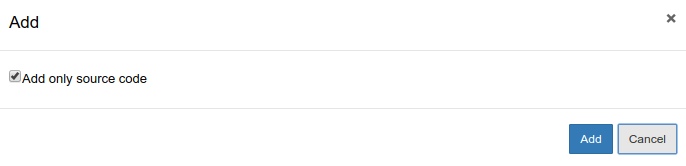
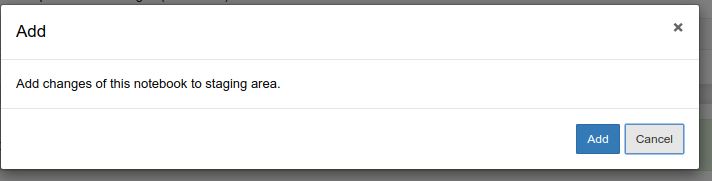
Fixes

Changed region(s): [[0.0, 0.0, 1.0, 1.0], [0.0, 0.4217, 0.398, 0.512], [0.0, 0.0904, 0.0612, 0.2108]]

diff --git a/githubcommit/static/main.js b/githubcommit/static/main.js
@@ -4,16 +4,15 @@ define(['base/js/namespace','base/js/dialog','jquery'],function(IPython, dialog,
         var container = $('#notebook-container');
         if (status == 500) {
             // display feedback to user
-            feedback = '<div class="'+feedback_container+' alert alert-danger alert-dismissible" role="alert"> \
+            feedback = '<div class="feedback '+feedback_container+' alert alert-danger alert-dismissible" role="alert"> \
                               <button type="button" class="close" data-dismiss="alert" aria-label="Close"><span aria-hidden="true">&times;</span></button> \
-                              <strong>Warning!</strong> Something went wrong. \
                               <div>'+statusText+'</div> \
                             </div>';
 
         } else {
 
             // display feedback to user
-            feedback = '<div class="'+feedback_container+' alert alert-success alert-dismissible" role="alert"> \
+            feedback = '<div class="feedback '+feedback_container+' alert alert-success alert-dismissible" role="alert"> \
                               <button type="button" class="close" data-dismiss="alert" aria-label="Close"><span aria-hidden="true">&times;</span></button> \
                               '+statusText+' \
                                \
@@ -21,6 +20,7 @@ define(['base/js/namespace','base/js/dialog','jquery'],function(IPython, dialog,
         }
 
         // display feedback
+        $('.feedback').remove();
         $('.' + feedback_container).remove();
         container.prepend(feedback);
     }
@@ -34,10 +34,9 @@ define(['base/js/namespace','base/js/dialog','jquery'],function(IPython, dialog,
             var on_error = undefined;
 
             var div = $('<div/>')
+            var p = $('<p/>').text("Add changes of this notebook to staging area.")
 
-            var checkbox = '<input type="checkbox" id="add_only_source" name="feature" value="scales" checked /><label>Add only source code</label>'
-
-            div.append(checkbox)
+            div.append(p)
 
             // get the canvas for user feedback
             var container = $('#notebook-container');
@@ -46,8 +45,7 @@ define(['base/js/namespace','base/js/dialog','jquery'],function(IPython, dialog,
                 var re = /^\/notebooks(.*?)$/;
                 var filepath = window.location.pathname.match(re)[1];
                 var payload = {
-                             'filename': filepath,
-                             'add_only_source': $("#add_only_source").prop('checked')
+                             'filename': filepath
                            };
                 var settings = {
                     url : '/git/add',

diff --git a/githubcommit/handlers.py b/githubcommit/handlers.py
@@ -6,6 +6,15 @@ from subprocess import check_output
 import subprocess
 
 
+def get_status(repo, path):
+    changed = [ item.a_path for item in repo.index.diff(None) ]
+    if path in repo.untracked_files:
+        return 'untracked'
+    elif path in changed:
+        return 'modified'
+    else:
+        return 'don''t care'
+
 class GitBaseHandler(IPythonHandler):
 
     def get_git_vars(self):
@@ -41,14 +50,13 @@ class GitAddHandler(GitBaseHandler):
         # obtain filename and msg for add
         data = json.loads(self.request.body.decode('utf-8'))
         filename = urllib.parse.unquote(data['filename'])
-        add_only_source = data['add_only_source']
 
         # get current directory (to return later)
         cwd = os.getcwd()
 
         # select branch within repo
         try:
-            os.chdir(git_dir)
+            os.chdieplace('ipynb', 'py')(git_dir)
             dir_repo = check_output(['git','rev-parse','--show-toplevel']).strip()
             repo = Repo(dir_repo.decode('utf8'))
         except GitCommandError as e:
@@ -61,14 +69,18 @@ class GitAddHandler(GitBaseHandler):
         except GitCommandError:
             print("Switching to {}".format(repo.heads[git_branch].checkout()))
 
+        if get_status(repo, filename[1:]) != 'modified':
+            self.error_and_return(cwd, "There's no changes on this notbook. Did you save it after you made change?")
+            return
+
         # commit current notebook
         # client will sent pathname containing git directory; append to git directory's parent
         try:
-            if add_only_source :
-                subprocess.run(['jupyter', 'nbconvert', '--to', 'script', str(os.environ.get('GIT_PARENT_DIR') + "/" + os.environ.get('GIT_REPO_NAME') + filename)])
-                filename = filename.replace('ipynb', 'py')
-            
+            subprocess.run(['jupyter', 'nbconvert', '--to', 'script', str(os.environ.get('GIT_PARENT_DIR') + "/" + os.environ.get('GIT_REPO_NAME') + filename)])
+            src_filename = filename.replace('ipynb', 'py')
+
             print(repo.git.add(str(os.environ.get('GIT_PARENT_DIR') + "/" + os.environ.get('GIT_REPO_NAME') + filename)))
+            print(repo.git.add(str(os.environ.get('GIT_PARENT_DIR') + "/" + os.environ.get('GIT_REPO_NAME') + src_filename)))
 
         except GitCommandError as e:
             print(e)
@@ -112,6 +124,10 @@ class GitCommitHandler(GitBaseHandler):
             print(repo.git.checkout('HEAD', b=git_branch))
         except GitCommandError:
             print("Switching to {}".format(repo.heads[git_branch].checkout()))
+
+        if not repo.index.diff("HEAD"):
+            self.error_and_return(cwd, "There are no staged files to commit.")
+            return
 
         # commit current notebook
         # client will sent pathname containing git directory; append to git directory's parent
@@ -190,8 +206,10 @@ class GitPushHandler(GitBaseHandler):
           github_headers = {"Authorization": "token {}".format(git_access_token)}
           r = requests.post(github_url, data=json.dumps(github_pr), headers=github_headers)
           if r.status_code != 201:
+            print(r)
             print("Error submitting Pull Request to {}".format(git_repo_upstream))
-        except:
+        except Exception as e:
+            print(e)
             print("Error submitting Pull Request to {}".format(git_repo_upstream))
 
         # return to directory
@@ -240,7 +258,7 @@ class GitPullHandler(GitBaseHandler):
         try:
             pulled = remote.pull(git_branch)
             assert len(pulled)>0
-        except GitCommandError as e:
+        except Exception as e:
             print(e)
             self.error_and_return(cwd, "Could not pull from remote {}: {}".format(git_remote, str(e)))
             return

diff --git a/README.md b/README.md
@@ -34,13 +34,16 @@ jupyter nbextension enable --py githubcommit
 * Run jupyter notebook from within your repo directory
 
 ## Example git configuration
-export GIT_PARENT_DIR=~ <br />
-export GIT_REPO_NAME=gitjupyter <br />
-export GIT_BRANCH_NAME=master <br />
-export GIT_USER=sat28 <br />
-export GIT_EMAIL=anand.shaleen@gmail.com <br />
-export GITHUB_ACCESS_TOKEN=#access-token from github developer settings <br />
-export GIT_USER_UPSTREAM=sat28 <br />
+export GIT_PARENT_DIR=~
+export GIT_REPO_NAME=#your-repo
+export GIT_BRANCH_NAME=#your-branch
+export GIT_USER=#your-gituser
+export GIT_EMAIL=#your-email
+export GITHUB_ACCESS_TOKEN=#access-token from github developer settings
+
+
+#### This is for pull request to original repo if the current repo is forked.
+export GIT_USER_UPSTREAM=#original-repo-user <br />
 
 ## Screenshots
 
